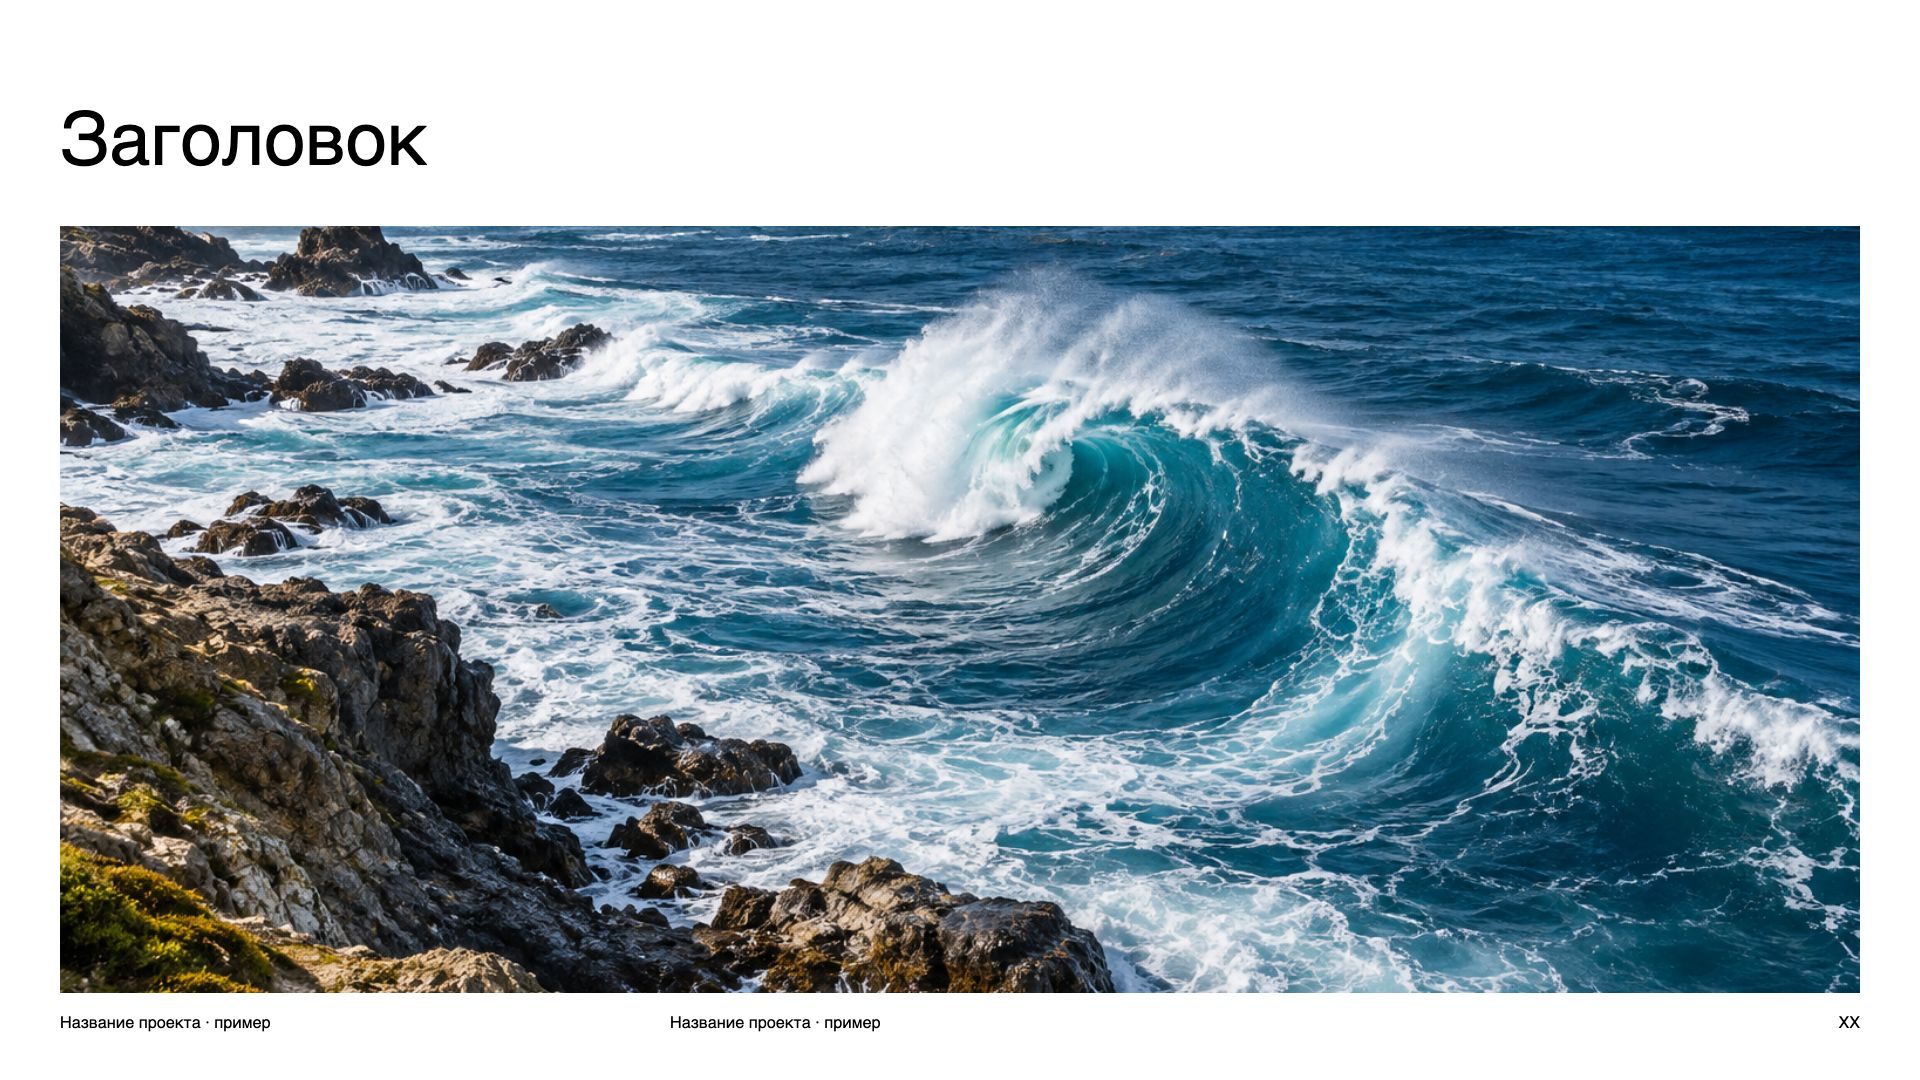
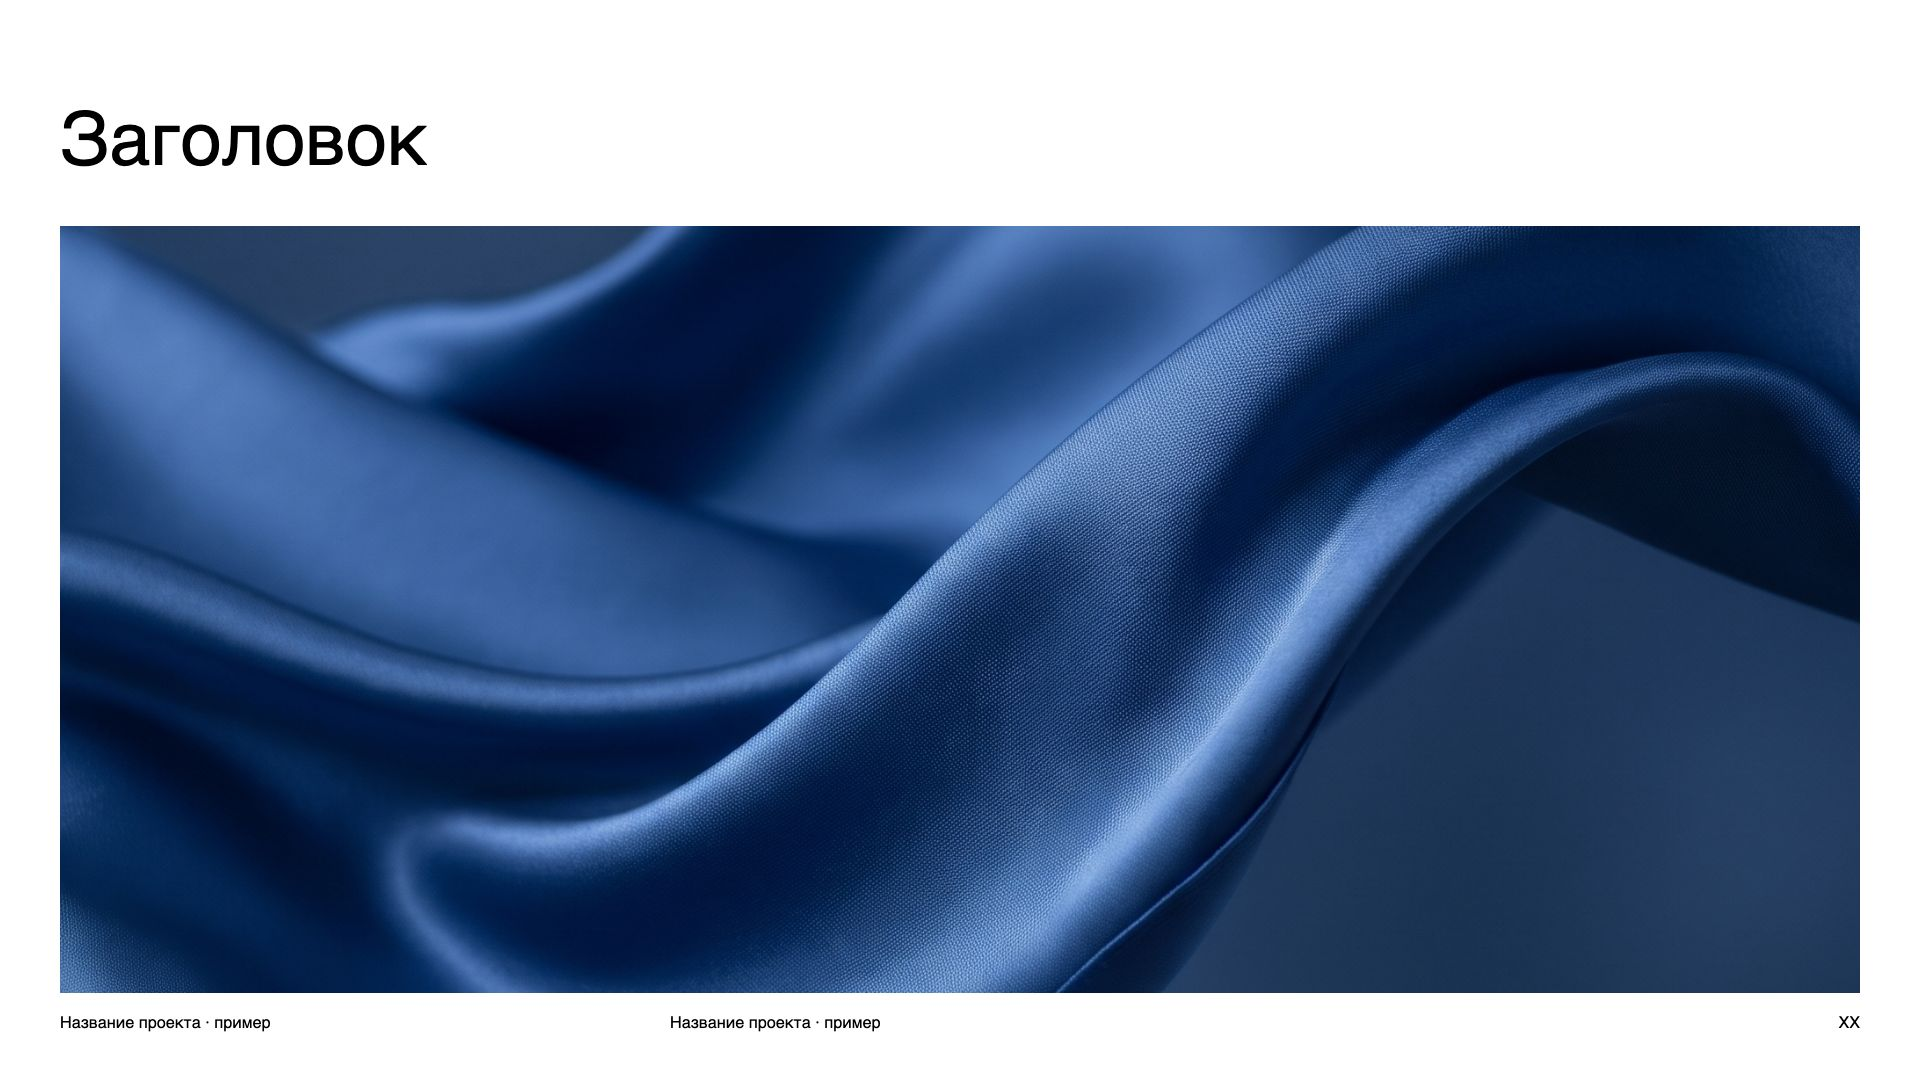
Use supplied blue fabric image throughout neutral templates

diff --git a/skills/redo-present/assets/templates/neutral/slides/036.html b/skills/redo-present/assets/templates/neutral/slides/036.html
@@ -3,7 +3,7 @@
 <html lang="ru"><head><meta charset="utf-8"/><meta content="width=device-width,initial-scale=1" name="viewport"/><title>36 / Meet the team — Neutral</title><link href="../styles.css" rel="stylesheet"/></head><body class="slide-page"><main aria-label="36 / Meet the team" class="slide"><div class="layout-1">
 <p class="layout-266" data-slot="text-01">Заголовок</p>
 <div class="layout-267">
-<img alt="Природа · сгенерированное изображение" class="layout-3" data-slot="image-01" src="../assets/nature-1.png"/>
+<img alt="Синяя ткань" class="layout-3" data-slot="image-01" src="../assets/blue-fabric.png"/>
 </div>
 <div class="layout-268">
 <p class="layout-269" data-slot="text-02">Главная мысль</p>
@@ -11,7 +11,7 @@
 <p class="layout-271" data-slot="text-04">Добавьте описание.</p>
 </div>
 <div class="layout-272">
-<img alt="Природа · сгенерированное изображение" class="layout-3" data-slot="image-02" src="../assets/nature-2.png"/>
+<img alt="Синяя ткань" class="layout-3" data-slot="image-02" src="../assets/blue-fabric.png"/>
 </div>
 <div class="layout-273">
 <p class="layout-269" data-slot="text-05">Главная мысль</p>
@@ -19,7 +19,7 @@
 <p class="layout-271" data-slot="text-07">Добавьте описание.</p>
 </div>
 <div class="layout-274">
-<img alt="Природа · сгенерированное изображение" class="layout-3" data-slot="image-03" src="../assets/nature-3.png"/>
+<img alt="Синяя ткань" class="layout-3" data-slot="image-03" src="../assets/blue-fabric.png"/>
 </div>
 <div class="layout-275">
 <p class="layout-269" data-slot="text-08">Главная мысль</p>
@@ -27,7 +27,7 @@
 <p class="layout-271" data-slot="text-10">Добавьте описание.</p>
 </div>
 <div class="layout-276">
-<img alt="Природа · сгенерированное изображение" class="layout-3" data-slot="image-04" src="../assets/nature-4.png"/>
+<img alt="Синяя ткань" class="layout-3" data-slot="image-04" src="../assets/blue-fabric.png"/>
 </div>
 <div class="layout-277">
 <p class="layout-269" data-slot="text-11">Главная мысль</p>

diff --git a/skills/redo-present/assets/templates/neutral/slides/026.html b/skills/redo-present/assets/templates/neutral/slides/026.html
@@ -4,16 +4,16 @@
 <p class="layout-163" data-slot="text-01">Подпись</p>
 <p class="layout-164" data-slot="text-02">Заголовок</p>
 <div class="layout-165">
-<img alt="Природа · сгенерированное изображение" class="layout-3" data-slot="image-01" src="../assets/nature-1.png"/>
+<img alt="Синяя ткань" class="layout-3" data-slot="image-01" src="../assets/blue-fabric.png"/>
 </div>
 <div class="layout-166">
-<img alt="Природа · сгенерированное изображение" class="layout-3" data-slot="image-02" src="../assets/nature-2.png"/>
+<img alt="Синяя ткань" class="layout-3" data-slot="image-02" src="../assets/blue-fabric.png"/>
 </div>
 <div class="layout-167">
-<img alt="Природа · сгенерированное изображение" class="layout-3" data-slot="image-03" src="../assets/nature-3.png"/>
+<img alt="Синяя ткань" class="layout-3" data-slot="image-03" src="../assets/blue-fabric.png"/>
 </div>
 <div class="layout-168">
-<img alt="Природа · сгенерированное изображение" class="layout-3" data-slot="image-04" src="../assets/nature-4.png"/>
+<img alt="Синяя ткань" class="layout-3" data-slot="image-04" src="../assets/blue-fabric.png"/>
 </div>
 <p class="layout-169" data-slot="text-03">Подпись</p>
 <p class="layout-132" data-slot="text-04">Название проекта · пример</p>

diff --git a/skills/redo-present/assets/templates/neutral/slides/009.html b/skills/redo-present/assets/templates/neutral/slides/009.html
@@ -2,15 +2,15 @@
 
 <html lang="ru"><head><meta charset="utf-8"/><meta content="width=device-width,initial-scale=1" name="viewport"/><title>09 / Three columns — Neutral</title><link href="../styles.css" rel="stylesheet"/></head><body class="slide-page"><main aria-label="09 / Three columns" class="slide"><div class="layout-1">
 <div class="layout-56">
-<img alt="Природа · сгенерированное изображение" class="layout-3" data-slot="image-01" src="../assets/nature-4.png"/>
+<img alt="Синяя ткань" class="layout-3" data-slot="image-01" src="../assets/blue-fabric.png"/>
 <div class="layout-48"></div>
 </div>
 <div class="layout-57">
-<img alt="Природа · сгенерированное изображение" class="layout-3" data-slot="image-02" src="../assets/nature-5.png"/>
+<img alt="Синяя ткань" class="layout-3" data-slot="image-02" src="../assets/blue-fabric.png"/>
 <div class="layout-58"></div>
 </div>
 <div class="layout-59">
-<img alt="Природа · сгенерированное изображение" class="layout-3" data-slot="image-03" src="../assets/nature-1.png"/>
+<img alt="Синяя ткань" class="layout-3" data-slot="image-03" src="../assets/blue-fabric.png"/>
 <div class="layout-48"></div>
 </div>
 <p class="layout-60" data-slot="text-01">Добавьте описание.</p>

diff --git a/skills/redo-present/assets/templates/neutral/slides/025.html b/skills/redo-present/assets/templates/neutral/slides/025.html
@@ -2,10 +2,10 @@
 
 <html lang="ru"><head><meta charset="utf-8"/><meta content="width=device-width,initial-scale=1" name="viewport"/><title>25 / Контактный лист — Neutral</title><link href="../styles.css" rel="stylesheet"/></head><body class="slide-page"><main aria-label="25 / Контактный лист" class="slide"><div class="layout-13"><div class="wave-pattern" style="color:var(--color-white)"></div>
 <div class="layout-159">
-<img alt="Природа · сгенерированное изображение" class="layout-3" data-slot="image-01" src="../assets/nature-5.png"/>
+<img alt="Синяя ткань" class="layout-3" data-slot="image-01" src="../assets/blue-fabric.png"/>
 </div>
 <div class="layout-160">
-<img alt="Природа · сгенерированное изображение" class="layout-3" data-slot="image-02" src="../assets/nature-1.png"/>
+<img alt="Синяя ткань" class="layout-3" data-slot="image-02" src="../assets/blue-fabric.png"/>
 </div>
 <p class="layout-161" data-slot="text-01">Добавьте описание.</p>
 <p class="layout-132" data-slot="text-02">Название проекта · пример</p>

diff --git a/skills/redo-present/assets/templates/neutral/slides/027.html b/skills/redo-present/assets/templates/neutral/slides/027.html
@@ -4,13 +4,13 @@
 <p class="layout-150" data-slot="text-01">Подпись</p>
 <p class="layout-151" data-slot="text-02">Заголовок</p>
 <div class="layout-170">
-<img alt="Природа · сгенерированное изображение" class="layout-3" data-slot="image-01" src="../assets/nature-2.png"/>
+<img alt="Синяя ткань" class="layout-3" data-slot="image-01" src="../assets/blue-fabric.png"/>
 </div>
 <div class="layout-171">
-<img alt="Природа · сгенерированное изображение" class="layout-3" data-slot="image-02" src="../assets/nature-3.png"/>
+<img alt="Синяя ткань" class="layout-3" data-slot="image-02" src="../assets/blue-fabric.png"/>
 </div>
 <div class="layout-172">
-<img alt="Природа · сгенерированное изображение" class="layout-3" data-slot="image-03" src="../assets/nature-4.png"/>
+<img alt="Синяя ткань" class="layout-3" data-slot="image-03" src="../assets/blue-fabric.png"/>
 </div>
 <p class="layout-158" data-slot="text-03">Подпись</p>
 <p class="layout-147" data-slot="text-04">Название проекта · пример</p>

diff --git a/skills/redo-present/assets/templates/neutral/slides/028.html b/skills/redo-present/assets/templates/neutral/slides/028.html
@@ -4,13 +4,13 @@
 <p class="layout-150" data-slot="text-01">Подпись</p>
 <p class="layout-151" data-slot="text-02">Заголовок</p>
 <div class="layout-173">
-<img alt="Природа · сгенерированное изображение" class="layout-3" data-slot="image-01" src="../assets/nature-3.png"/>
+<img alt="Синяя ткань" class="layout-3" data-slot="image-01" src="../assets/blue-fabric.png"/>
 </div>
 <div class="layout-174">
-<img alt="Природа · сгенерированное изображение" class="layout-3" data-slot="image-02" src="../assets/nature-4.png"/>
+<img alt="Синяя ткань" class="layout-3" data-slot="image-02" src="../assets/blue-fabric.png"/>
 </div>
 <div class="layout-175">
-<img alt="Природа · сгенерированное изображение" class="layout-3" data-slot="image-03" src="../assets/nature-5.png"/>
+<img alt="Синяя ткань" class="layout-3" data-slot="image-03" src="../assets/blue-fabric.png"/>
 </div>
 <p class="layout-158" data-slot="text-03">Подпись</p>
 <p class="layout-147" data-slot="text-04">Название проекта · пример</p>

diff --git a/skills/redo-present/assets/templates/neutral/slides/024.html b/skills/redo-present/assets/templates/neutral/slides/024.html
@@ -4,13 +4,13 @@
 <p class="layout-150" data-slot="text-01">Подпись</p>
 <p class="layout-151" data-slot="text-02">Заголовок</p>
 <div class="layout-152">
-<img alt="Природа · сгенерированное изображение" class="layout-3" data-slot="image-01" src="../assets/nature-4.png"/>
+<img alt="Синяя ткань" class="layout-3" data-slot="image-01" src="../assets/blue-fabric.png"/>
 </div>
 <div class="layout-153">
-<img alt="Природа · сгенерированное изображение" class="layout-3" data-slot="image-02" src="../assets/nature-5.png"/>
+<img alt="Синяя ткань" class="layout-3" data-slot="image-02" src="../assets/blue-fabric.png"/>
 </div>
 <div class="layout-154">
-<img alt="Природа · сгенерированное изображение" class="layout-3" data-slot="image-03" src="../assets/nature-1.png"/>
+<img alt="Синяя ткань" class="layout-3" data-slot="image-03" src="../assets/blue-fabric.png"/>
 </div>
 <p class="layout-155" data-slot="text-03">Главная мысль</p>
 <p class="layout-156" data-slot="text-04">Главная мысль</p>

diff --git a/skills/redo-present/assets/templates/neutral/slides/008.html b/skills/redo-present/assets/templates/neutral/slides/008.html
@@ -2,11 +2,11 @@
 
 <html lang="ru"><head><meta charset="utf-8"/><meta content="width=device-width,initial-scale=1" name="viewport"/><title>08 / Two columns — Neutral</title><link href="../styles.css" rel="stylesheet"/></head><body class="slide-page"><main aria-label="08 / Two columns" class="slide"><div class="layout-1">
 <div class="layout-47">
-<img alt="Природа · сгенерированное изображение" class="layout-3" data-slot="image-01" src="../assets/nature-3.png"/>
+<img alt="Синяя ткань" class="layout-3" data-slot="image-01" src="../assets/blue-fabric.png"/>
 <div class="layout-48"></div>
 </div>
 <div class="layout-49">
-<img alt="Природа · сгенерированное изображение" class="layout-3" data-slot="image-02" src="../assets/nature-4.png"/>
+<img alt="Синяя ткань" class="layout-3" data-slot="image-02" src="../assets/blue-fabric.png"/>
 <div class="layout-50"></div>
 </div>
 <p class="layout-51" data-slot="text-01">Добавьте описание.</p>

diff --git a/skills/redo-present/assets/templates/neutral/slides/044.html b/skills/redo-present/assets/templates/neutral/slides/044.html
@@ -1,7 +1,7 @@
 <!DOCTYPE html>
 
 <html lang="ru"><head><meta charset="utf-8"/><meta content="width=device-width,initial-scale=1" name="viewport"/><title>44 / Шмуцтитул / Фотография 1 — Neutral</title><link href="../styles.css" rel="stylesheet"/></head><body class="slide-page"><main aria-label="44 / Шмуцтитул / Фотография 1" class="slide"><div class="layout-29"><div class="wave-pattern" style="color:var(--color-blue)"></div>
-<img alt="Природа · сгенерированное изображение" class="layout-3" data-slot="image-01" src="../assets/nature-4.png"/>
+<img alt="Синяя ткань" class="layout-3" data-slot="image-01" src="../assets/blue-fabric.png"/>
 <div class="layout-459"></div>
 <p class="layout-21" data-slot="text-01">Название проекта · пример</p>
 <p class="layout-22" data-slot="text-02">Название проекта · пример</p>

diff --git a/skills/redo-present/assets/templates/neutral/slides/046.html b/skills/redo-present/assets/templates/neutral/slides/046.html
@@ -1,7 +1,7 @@
 <!DOCTYPE html>
 
 <html lang="ru"><head><meta charset="utf-8"/><meta content="width=device-width,initial-scale=1" name="viewport"/><title>46 / Шмуцтитул / Фотография 3 — Neutral</title><link href="../styles.css" rel="stylesheet"/></head><body class="slide-page"><main aria-label="46 / Шмуцтитул / Фотография 3" class="slide"><div class="layout-29"><div class="wave-pattern" style="color:var(--color-blue)"></div>
-<img alt="Природа · сгенерированное изображение" class="layout-3" data-slot="image-01" src="../assets/nature-1.png"/>
+<img alt="Синяя ткань" class="layout-3" data-slot="image-01" src="../assets/blue-fabric.png"/>
 <div class="layout-462"></div>
 <p class="layout-21" data-slot="text-01">Название проекта · пример</p>
 <p class="layout-22" data-slot="text-02">Название проекта · пример</p>

diff --git a/skills/redo-present/assets/templates/neutral/slides/045.html b/skills/redo-present/assets/templates/neutral/slides/045.html
@@ -1,7 +1,7 @@
 <!DOCTYPE html>
 
 <html lang="ru"><head><meta charset="utf-8"/><meta content="width=device-width,initial-scale=1" name="viewport"/><title>45 / Шмуцтитул / Фотография 2 — Neutral</title><link href="../styles.css" rel="stylesheet"/></head><body class="slide-page"><main aria-label="45 / Шмуцтитул / Фотография 2" class="slide"><div class="layout-29"><div class="wave-pattern" style="color:var(--color-blue)"></div>
-<img alt="Природа · сгенерированное изображение" class="layout-3" data-slot="image-01" src="../assets/nature-5.png"/>
+<img alt="Синяя ткань" class="layout-3" data-slot="image-01" src="../assets/blue-fabric.png"/>
 <div class="layout-461"></div>
 <p class="layout-119" data-slot="text-01">—</p>
 <p class="layout-121" data-slot="text-02">—</p>

diff --git a/skills/redo-present/assets/templates/neutral/slides/001.html b/skills/redo-present/assets/templates/neutral/slides/001.html
@@ -2,7 +2,7 @@
 
 <html lang="ru"><head><meta charset="utf-8"/><meta content="width=device-width,initial-scale=1" name="viewport"/><title>01 / Title + introduction — Neutral</title><link href="../styles.css" rel="stylesheet"/></head><body class="slide-page"><main aria-label="01 / Title + introduction" class="slide"><div class="layout-1">
 <div class="layout-2">
-<img alt="Природа · сгенерированное изображение" class="layout-3" data-slot="image-01" src="../assets/nature-1.png"/>
+<img alt="Синяя ткань" class="layout-3" data-slot="image-01" src="../assets/blue-fabric.png"/>
 </div>
 <p class="layout-4" data-slot="text-01">Опишите ключевую мысль и замените этот текст материалами проекта.</p>
 <div class="layout-5">
